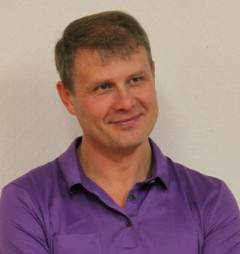
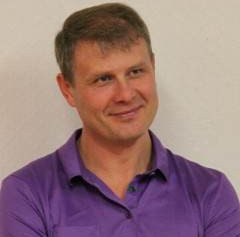
style: reduce bottom margin for images inside paragraphs

diff --git a/src/main/resources/static/css/style.min.css b/src/main/resources/static/css/style.min.css
@@ -1,1 +1,1 @@
-@font-face{font-family:'Open Sans';font-style:normal;font-weight:300;src:url(../fonts/open-sans-v17-cyrillic_latin-300.eot);src:local('Open Sans Light'),local('OpenSans-Light'),url(../fonts/open-sans-v17-cyrillic_latin-300.eot?#iefix) format('embedded-opentype'),url(../fonts/open-sans-v17-cyrillic_latin-300.woff2) format('woff2'),url(../fonts/open-sans-v17-cyrillic_latin-300.woff) format('woff'),url(../fonts/open-sans-v17-cyrillic_latin-300.ttf) format('truetype'),url(../fonts/open-sans-v17-cyrillic_latin-300.svg#OpenSans) format('svg')}@font-face{font-family:'Open Sans';font-style:normal;font-weight:400;src:url(../fonts/open-sans-v17-cyrillic_latin-regular.eot);src:local('Open Sans Regular'),local('OpenSans-Regular'),url(../fonts/open-sans-v17-cyrillic_latin-regular.eot?#iefix) format('embedded-opentype'),url(../fonts/open-sans-v17-cyrillic_latin-regular.woff2) format('woff2'),url(../fonts/open-sans-v17-cyrillic_latin-regular.woff) format('woff'),url(../fonts/open-sans-v17-cyrillic_latin-regular.ttf) format('truetype'),url(../fonts/open-sans-v17-cyrillic_latin-regular.svg#OpenSans) format('svg')}@font-face{font-family:'Open Sans';font-style:normal;font-weight:600;src:url(../fonts/open-sans-v17-cyrillic_latin-600.eot);src:local('Open Sans SemiBold'),local('OpenSans-SemiBold'),url(../fonts/open-sans-v17-cyrillic_latin-600.eot?#iefix) format('embedded-opentype'),url(../fonts/open-sans-v17-cyrillic_latin-600.woff2) format('woff2'),url(../fonts/open-sans-v17-cyrillic_latin-600.woff) format('woff'),url(../fonts/open-sans-v17-cyrillic_latin-600.ttf) format('truetype'),url(../fonts/open-sans-v17-cyrillic_latin-600.svg#OpenSans) format('svg')}@font-face{font-family:'Open Sans';font-style:normal;font-weight:700;src:url(../fonts/open-sans-v17-cyrillic_latin-700.eot);src:local('Open Sans Bold'),local('OpenSans-Bold'),url(../fonts/open-sans-v17-cyrillic_latin-700.eot?#iefix) format('embedded-opentype'),url(../fonts/open-sans-v17-cyrillic_latin-700.woff2) format('woff2'),url(../fonts/open-sans-v17-cyrillic_latin-700.woff) format('woff'),url(../fonts/open-sans-v17-cyrillic_latin-700.ttf) format('truetype'),url(../fonts/open-sans-v17-cyrillic_latin-700.svg#OpenSans) format('svg')}@font-face{font-family:'Open Sans';font-style:normal;font-weight:800;src:url(../fonts/open-sans-v17-cyrillic_latin-800.eot);src:local('Open Sans ExtraBold'),local('OpenSans-ExtraBold'),url(../fonts/open-sans-v17-cyrillic_latin-800.eot?#iefix) format('embedded-opentype'),url(../fonts/open-sans-v17-cyrillic_latin-800.woff2) format('woff2'),url(../fonts/open-sans-v17-cyrillic_latin-800.woff) format('woff'),url(../fonts/open-sans-v17-cyrillic_latin-800.ttf) format('truetype'),url(../fonts/open-sans-v17-cyrillic_latin-800.svg#OpenSans) format('svg')}body{font-family:'Open Sans',sans-serif}p{font-size:13px;color:#7a7a7a;line-height:24px}.page-content{width:79.5%;float:right}.content-section{padding-top:80px;position:relative;width:100%;display:inline-block;height:auto;left:50%;text-align:center;-webkit-transform:translateX(-50%);-moz-transform:translateX(-50%);-ms-transform:translateX(-50%);-o-transform:translateX(-50%);transform:translateX(-50%)}.section-heading{text-align:left;position:relative;margin-bottom:60px}.section-heading h1{margin-top:0;font-size:32px;color:#232323;display:inline-block}.section-heading em{font-style:normal;font-weight:700;color:#45489a}.section-heading p{display:inline-block;font-size:15px;line-height:26px;color:#343434}.justify-content-start p{position:absolute;top:6px}.shift-col{margin-left:-12px}.white-button a{font-size:13px;font-weight:600;color:#45489a;cursor:pointer;text-transform:capitalize;background-color:#fff;display:inline-block;height:44px;line-height:44px;padding:0 25px;letter-spacing:.25px;text-decoration:none;transition:all .3s}.white-button a:hover{background-color:#45489a;color:#fff}.accent-button a{font-size:13px;font-weight:600;color:#fff;text-transform:capitalize;background-color:#45489a;display:inline-block;height:44px;line-height:44px;padding:0 25px;letter-spacing:.25px;text-decoration:none;transition:all .3s}.accent-button a:hover{background-color:#fff;color:#45489a}header{position:fixed;top:0;transition:top .3s ease-in-out;width:100%}.nav-up{top:-75px}.responsive-nav{position:fixed;z-index:10;width:100%;height:80px;background-color:rgba(250,250,250,.95);box-shadow:0 5px 15px rgba(0,0,0,.2)}.navbar-toggle{position:absolute;top:40%;left:50%;display:inline-block;-webkit-transform:translateX(-50%) translateY(-50%);-moz-transform:translateX(-50%) translateY(-50%);-ms-transform:translateX(-50%) translateY(-50%);-o-transform:translateX(-50%) translateY(-50%);transform:translateX(-50%) translateY(-50%)}.navbar-nav{margin:0;border:none}#main-nav ul{text-align:center;background-color:rgba(0,0,0,.9);margin-top:59px;width:100%}#main-nav ul li{margin:15px 0}#main-nav ul li:hover{background-color:transparent}#main-nav ul li a{font-size:15px;text-transform:capitalize;color:#fff;box-shadow:none;border:none}#main-nav ul li a:hover{opacity:.5;background-color:transparent}.navbar-toggle span{background-color:#232323}.sidebar-navigation{width:20.5%;float:left;height:100%;position:fixed;background-color:rgba(12,12,12,.9);z-index:10}#locales{padding:10px 0;text-align:center}#locales span{padding-left:20px;padding-right:20px;color:#fff}.sidebar-navigation .logo{position:absolute;width:100%;height:auto;background:#f5f5f5;padding:10px}.sidebar-navigation .logo img{max-width:98%;max-height:100%}.sidebar-navigation nav{position:relative;top:65%;left:60%;-webkit-transform:translateX(-60%) translateY(-60%);-moz-transform:translateX(-60%) translateY(-60%);-ms-transform:translateX(-60%) translateY(-60%);-o-transform:translateX(-60%) translateY(-60%);transform:translateX(-60%) translateY(-60%)}.sidebar-navigation ul{margin-left:45px;list-style:none;padding:0}.sidebar-navigation li{padding:10px 0}.sidebar-navigation span{display:inline-block;position:relative}.sidebar-navigation nav a{display:inline-block;color:#fff;margin-top:5px;text-decoration:none!important;font-size:15px;letter-spacing:.5px;text-transform:capitalize}.circle{margin-right:5px;height:10px;width:10px;left:0;top:-1px;border-radius:50%;background-color:transparent;border:2px solid #fff;transition:all .3s}.rect{height:1px;width:0;left:0;bottom:5.5px;background-color:#fff;-webkit-transition:-webkit-transform .1s,width .6s;-moz-transition:-webkit-transform .1s,width .6s;transition:transform .1s,width .6s}.sidebar-navigation nav a:focus{color:#fff}.sidebar-navigation nav a:hover,nav .active-section{color:#fff}.sidebar-navigation nav a:hover span,nav .active-section span{background-color:#ddd}.sidebar-navigation nav .active-section .rect{width:30px}.sidebar-navigation nav .active-section .circle{background-color:#fff}.sidebar-navigation .social-icons{position:absolute;width:100%;bottom:10px;padding:0;margin:0;text-align:center}.sidebar-navigation .social-icons li{display:inline-block;margin-right:15px;margin-top:0;margin-bottom:0}.sidebar-navigation .social-icons li:last-child{margin-right:0}.sidebar-navigation .social-icons li a{font-size:18px;color:#fff;transition:all .5s}.sidebar-navigation .social-icons li a:hover{color:#45489a}.big-icon{font-size:24px}.slider .content-section{padding-top:0;min-width:100%;min-height:100vh;width:100%;height:100vh;text-align:center}.slider p a{color:#fff}.slider p a:hover{color:#ff0;text-decoration:none}.Modern-Slider .info{margin-left:25%;text-align:right;position:absolute;z-index:10;top:50%;right:60px;-webkit-transform:translateY(-50%);-moz-transform:translateY(-50%);-ms-transform:translateY(-50%);-o-transform:translateY(-50%);transform:translateY(-50%);display:inline-block}.Modern-Slider .info h1{margin-top:0;margin-bottom:15px;word-break:break-word;font-size:42px;color:#fff;font-weight:700}.Modern-Slider .info p{font-size:19px;color:#fff}.Modern-Slider .info .content{display:none}.Modern-Slider .info .content p{margin:0 0 10px}.Modern-Slider .info .white-button{margin-top:30px}.Modern-Slider .info .white-button a:focus{outline:0}.Modern-Slider .slick-dots{opacity:0}.Modern-Slider .NextArrow{outline:0;display:none;position:absolute;top:60px;right:60px;width:50px;height:50px;background:rgba(0,0,0,.5);border:0 none;margin-top:-22.5px;text-align:center;font:32px/50px FontAwesome;color:#fff;z-index:5}.Modern-Slider .NextArrow:before{content:'\f105'}.Modern-Slider .PrevArrow{outline:0;position:absolute;top:60px;right:120px;width:50px;height:50px;background:rgba(0,0,0,.5);border:0 none;margin-top:-22.5px;text-align:center;font:32px/50px FontAwesome;color:#fff;z-index:5}.Modern-Slider .item .image{width:100%;height:100vh;background-position:center center;background-size:cover;display:block}.Modern-Slider .item-1 .image{background-image:url(../img/Slider/slide_1.jpg)}.Modern-Slider .item-2 .image{background-image:url(../img/Slider/slide_2.jpg)}.Modern-Slider .PrevArrow:before{content:'\f104'}.Modern-Slider .item .image{animation:zoomin 12s ease-in-out infinite alternate;-webkit-animation:zoomin 12s ease-in-out infinite alternate}@keyframes zoomin{0%{-webkit-transform:scale(1)}100%{-webkit-transform:scale(1.2)}}.Modern-Slider{background:0 0}.slick-slider{position:relative;display:block;-webkit-user-select:none;-moz-user-select:none;-ms-user-select:none;user-select:none;-webkit-touch-callout:none;-khtml-user-select:none;-ms-touch-action:pan-y;touch-action:pan-y;-webkit-tap-highlight-color:transparent}.slick-list{position:relative;display:block;overflow:hidden;margin:0;padding:0}.slick-list:focus{outline:0}.slick-list.dragging{cursor:hand}.slick-slider .slick-list,.slick-slider .slick-track{-webkit-transform:translate3d(0,0,0);-ms-transform:translate3d(0,0,0);transform:translate3d(0,0,0)}.slick-track{position:relative;top:0;left:0;display:block}.slick-track:after,.slick-track:before{display:table;content:''}.slick-track:after{clear:both}.slick-loading .slick-track{visibility:hidden}.slick-slide{display:none;float:left;height:100%;min-height:1px}.slick-slide.dragging img{pointer-events:none}.slick-initialized .slick-slide{display:block}.slick-loading .slick-slide{visibility:hidden}.slick-vertical .slick-slide{display:block;height:auto;border:1px solid transparent}#featured{padding-left:60px;padding-right:60px;padding-bottom:80px;border-bottom:1px solid #eee}#featured .section-heading{margin-right:20%}#featured .content-section{display:inline-block;position:relative}#featured .owl-dots{margin-top:40px}#featured .owl-dots .owl-dot span{width:12px;height:12px;background-color:#cdcdcd!important;display:inline-block;border-radius:50%;margin:0 3px}#featured .owl-dots .active span{background-color:#45489a!important}#featured .owl-dots button{outline:0}#featured .owl-nav{position:absolute;display:inline-block;top:-110px;right:0}#featured .owl-nav button:focus{outline:0}#featured .owl-nav .owl-prev span{margin-right:10px}#featured .owl-nav .owl-next span,#featured .owl-nav .owl-prev span{outline:0;width:50px;height:50px;display:inline-block;text-align:center;line-height:42px;background-color:#eee;color:#232323;font-size:42px;transition:all .5s}#featured .owl-nav span:hover{background-color:#45489a;color:#fff}#featured .item{text-align:left;position:relative;z-index:10}#featured .item .image{position:relative}#featured .item .image img{width:100%;overflow:hidden}#featured .item .image .featured-button a{font-size:13px;font-weight:600;color:#fff;text-align:center;text-transform:capitalize;background-color:rgba(69,72,154,.9);display:inline-block;height:44px;line-height:44px;width:100%;letter-spacing:.25px;text-decoration:none;transition:all .5s;position:absolute;z-index:9;bottom:-44px;opacity:0}#featured .item:hover .featured-button a{bottom:0;opacity:1}#featured .item .text-content{padding-top:20px;background-color:#fff;position:relative;z-index:10}#featured .item .text-content h4{margin-top:0;margin-bottom:5px;font-size:21px;font-weight:600;color:#232323;letter-spacing:.5px}#featured .item .text-content span{display:inline-block;font-size:15px;font-weight:600;color:#7a7a7a;letter-spacing:.5px;margin-bottom:12.5px}.gallery img{transition:1s;padding:12px;width:250px;height:200px;object-fit:cover}.gallery img:hover{filter:opacity(90%);transform:scale(1.1)}#imggallery{padding-left:60px;padding-right:60px;padding-bottom:50px;background-color:#f4f4f4}#imggallery .masonry{position:relative;width:100%}#imggallery .masonry .item img{transition:all 1s;width:100%;overflow:hidden;margin-bottom:30px}#imggallery .masonry .item img:hover{opacity:.5}#video{background-color:#f4f4f4;padding:100px 60px}#video .accent-button{margin-top:30px}.video-gallery{position:relative;margin:0 auto;text-align:center}.video-gallery .gallery-item{position:relative;float:left;overflow:hidden;margin:10px 1%;min-width:280px;max-width:640px;max-height:360px;width:48%;background:#000;cursor:pointer}.video-gallery .gallery-item img{position:relative;display:block;opacity:.45;width:110%;height:360px;transition:opacity .35s,transform .35s;transform:translate3d(-23px,0,0);backface-visibility:hidden}.video-gallery .gallery-item .gallery-item-caption{padding:2em;color:#fff;text-transform:uppercase;font-size:1.25em}.video-gallery .gallery-item .gallery-item-caption,.video-gallery .gallery-item .gallery-item-caption>a{position:absolute;top:0;left:0;width:100%;height:100%}.video-gallery .gallery-item h2{font-weight:300;overflow:hidden;padding:.5em 0}.video-gallery .gallery-item h2,.video-gallery .gallery-item p{position:relative;margin:0;z-index:10}.video-gallery .gallery-item p{letter-spacing:1px;font-size:68%;padding:1em 0;opacity:0;transition:opacity .35s,transform .35s;transform:translate3d(10%,0,0)}.video-gallery .gallery-item:hover img{opacity:.3;transform:translate3d(0,0,0)}.video-gallery .gallery-item .gallery-item-caption{text-align:left}.video-gallery .gallery-item h2::after{content:"";position:absolute;bottom:0;left:0;width:15%;height:1px;background:#fff;transition:transform .3s;transform:translate3d(-100%,0,0)}.video-gallery .gallery-item:hover h2::after{transform:translate3d(0,0,0)}.video-gallery .gallery-item:hover p{opacity:1;transform:translate3d(0,0,0)}@media screen and (max-width:992px){.video-gallery .gallery-item{display:inline-block;float:none;margin:10px auto;width:100%}.video-gallery .gallery-item img{height:280px}}#witness{padding-left:60px;padding-right:60px;padding-bottom:80px}#witness .nav-tabs{list-style:none;margin:0;padding:0;width:100%;background-color:#eee;border-bottom:10px solid #45489a}#witness .nav-tabs li{display:inline-block;text-align:center;width:25%;float:left;margin:0;padding:0}#witness .nav-tabs a{display:block;text-align:center;text-decoration:none;text-transform:capitalize;color:#232323;font-size:19px;font-weight:600;transition:.5s}#witness .nav-tabs a:hover{color:#45489a}#witness .nav-tabs .active:hover{color:#fff}#witness .nav-tabs>.active a{background-color:#45489a;color:#fff}.tab-content{background-color:#f4f4f4;padding:20px 30px}.tab-content p{text-align:left;font-size:17px;color:#555;line-height:24px}.bold-text{font-weight:700}.clearfix:after{content:"";display:table;clear:both}.clearfix img{margin:8px 0}img.pull-left{padding-left:unset}img.pull-right{padding-right:unset}#witness .item .text-content h4{padding-top:7.5px;margin-top:0;margin-bottom:5px;font-size:21px;font-weight:600;color:#232323;letter-spacing:.5px}#witness .item .text-content span{display:inline-block;font-size:15px;font-weight:600;color:#7a7a7a;letter-spacing:.5px;margin-bottom:15px}#witness .item .text-content .accent-button{margin-top:25px}#advice{padding-left:60px;padding-right:60px;padding-bottom:80px;background-color:#f4f4f4}.advice-item{text-align:left}.advice-item p{font-size:17px;color:#555;line-height:24px}.acc{margin:0 auto}.question-card{margin-top:2em;position:relative}.question-title{background:#fff;box-shadow:0 0 20px rgba(0,0,0,.2);color:#212121;cursor:pointer;display:block;padding:1em 1.5em;position:relative;text-align:left;font-size:large}.question-title::after{width:8px;height:8px;border-right:1px solid #4a6e78;border-bottom:1px solid #4a6e78;position:absolute;right:10px;content:" ";top:17px;transform:rotate(-45deg);transition:all .2s ease-in-out}.question-title.active::after{transform:rotate(45deg);transition:all .2s ease-in-out}.question-panel{background:#fff;color:#212121;display:none;margin:0;padding:2em;text-align:left}blockquote{margin:0 auto;padding:1em;border-left:5px solid #45489a}blockquote:before{display:none}blockquote:not(:first-of-type){margin-top:.5em}blockquote p{color:#555;font-size:12pt;line-height:1.4;font-family:'PT Serif',Cambria,'Hoefler Text',Utopia,'Liberation Serif','Nimbus Roman No9 L Regular',Times,'Times New Roman',serif}blockquote footer{margin-top:.5em;padding:0;color:#777;font-size:12pt;text-align:left;font-style:italic}blockquote footer:before{content:'— '}blockquote:nth-of-type(even){text-align:right;border-left:none;border-right:5px solid #45489a}blockquote:nth-of-type(even) footer{text-align:right}blockquote:nth-of-type(even) footer:before{content:''}blockquote:nth-of-type(even) footer:after{content:' —'}#contact{padding-top:0}#contact-content{padding:80px 60px 0}#contact input{border-radius:0;padding-left:15px;font-size:13px;color:#000;background-color:#f4f4f4;border:1px solid #eee;outline:0;box-shadow:none;line-height:40px;height:40px;width:100%;margin-bottom:25px}#contact textarea{border-radius:0;padding-left:15px;padding-top:10px;font-size:13px;color:#000;background-color:#f4f4f4;border:1px solid #eee;outline:0;box-shadow:none;height:200px;max-height:250px;width:100%;max-width:100%;margin-bottom:25px}#contact button{font-size:13px;border-radius:0;font-weight:600;color:#fff;text-transform:capitalize;background-color:#45489a;display:inline-block;height:44px;line-height:24px;outline:0;box-shadow:none;width:100%;letter-spacing:.25px;text-decoration:none;transition:all .3s}#contact button:hover{color:#232323;background-color:#f4f4f4}.alert{padding:10px 35px 10px 14px;border-radius:4px;position:relative;margin:25px 0 0}.alert .close{position:absolute;top:6px;right:12px;font-size:24px;font-weight:700;cursor:pointer}#contact .section-content{margin-bottom:25px}.footer{background-color:rgba(12,12,12,.9);height:80px;line-height:80px;display:inline-block;text-align:center;width:100%}.footer p{margin-bottom:0;font-size:13px;line-height:80px;color:#fff;letter-spacing:.5px;font-weight:300}.footer p a{text-decoration:none;color:#fff;font-weight:600}@supports (-webkit-overflow-scrolling:touch){.Modern-Slider .PrevArrow{width:50px;height:50px;margin-left:-40px}.Modern-Slider .NextArrow{width:50px;height:50px;margin-right:-40px}}@media (max-width:992px){.responsive-nav{display:none}.sidebar-navigation .logo{font-size:18px}.sidebar-navigation nav a{font-size:13px}.sidebar-navigation nav ul{margin-left:30px}.sidebar-navigation .social-icons li a{font-size:15px}#contact-info,.section-heading p{position:relative}.section-heading .sidecontainer{position:relative}}@media (max-width:767px){.responsive-nav{display:block;height:60px}.page-content{width:100%}.Modern-Slider .info{margin-left:unset;text-align:center;right:0;padding:0 30px}.Modern-Slider .NextArrow{outline:0;display:none;position:absolute;top:120px;right:50%;transform:translateX(50%);margin-right:-30px;width:50px;height:50px;background:rgba(0,0,0,.5);border:0 none;text-align:center;font:32px/50px FontAwesome;color:#fff;z-index:5}.Modern-Slider .NextArrow:before{content:'\f105'}.Modern-Slider .PrevArrow{outline:0;position:absolute;top:120px;left:50%;transform:translateX(-50%);margin-left:-30px;width:50px;height:50px;background:rgba(0,0,0,.5);border:0 none;text-align:center;font:32px/50px FontAwesome;color:#fff;z-index:5}.pull-right{padding-left:unset;float:left}#contact-info,.section-heading p{position:relative}.section-heading .sidecontainer{position:relative}}@media (max-width:690px){.Modern-Slider .info h1{font-size:42px}.Modern-Slider .info p{font-size:16px}.section-heading p{position:relative}.section-heading .sidecontainer{position:relative}.column2{white-space:normal;padding:unset;flex:50%}#featured{padding-left:15px;padding-right:15px}#featured .owl-nav{position:absolute;display:inline-block;top:-110px;right:0}#imggallery{padding-left:15px;padding-right:15px}#video{padding-left:15px;padding-right:15px}#witness{padding-left:15px;padding-right:15px}#witness .nav-tabs a{font-size:12px}#witness .tab-content .text-content{display:block}#advice{padding-left:15px;padding-right:15px}#contact-content{padding-left:15px;padding-right:15px}}@media (max-width:339px){.Modern-Slider .info h1{font-size:38px}.Modern-Slider .info p{font-size:16px}#witness .nav-tabs a{font-size:10px}.footer{height:80px}.footer p{line-height:40px}}@media only screen and (max-width:992px){#goback-to-witness{position:fixed;bottom:20px;right:20px;background:rgba(0,0,0,.7);width:50px;height:50px;display:none;text-decoration:none;-webkit-border-radius:35px;-moz-border-radius:35px;border-radius:35px;-webkit-transition:all .3s linear;-moz-transition:all .3s ease;-o-transition:all .3s ease;transition:all .3s ease;z-index:2}#goback-to-witness i{color:#fff;margin:0;position:relative;left:16px;top:13px;font-size:19px;-webkit-transition:all .3s ease;-moz-transition:all .3s ease;-o-transition:all .3s ease;transition:all .3s ease}#goback-to-witness:hover{background:rgba(0,0,0,.9)}#goback-to-witness:hover i{color:#fff;top:5px}}
+@font-face{font-family:'Open Sans';font-style:normal;font-weight:300;src:url(../fonts/open-sans-v17-cyrillic_latin-300.eot);src:local('Open Sans Light'),local('OpenSans-Light'),url(../fonts/open-sans-v17-cyrillic_latin-300.eot?#iefix) format('embedded-opentype'),url(../fonts/open-sans-v17-cyrillic_latin-300.woff2) format('woff2'),url(../fonts/open-sans-v17-cyrillic_latin-300.woff) format('woff'),url(../fonts/open-sans-v17-cyrillic_latin-300.ttf) format('truetype'),url(../fonts/open-sans-v17-cyrillic_latin-300.svg#OpenSans) format('svg')}@font-face{font-family:'Open Sans';font-style:normal;font-weight:400;src:url(../fonts/open-sans-v17-cyrillic_latin-regular.eot);src:local('Open Sans Regular'),local('OpenSans-Regular'),url(../fonts/open-sans-v17-cyrillic_latin-regular.eot?#iefix) format('embedded-opentype'),url(../fonts/open-sans-v17-cyrillic_latin-regular.woff2) format('woff2'),url(../fonts/open-sans-v17-cyrillic_latin-regular.woff) format('woff'),url(../fonts/open-sans-v17-cyrillic_latin-regular.ttf) format('truetype'),url(../fonts/open-sans-v17-cyrillic_latin-regular.svg#OpenSans) format('svg')}@font-face{font-family:'Open Sans';font-style:normal;font-weight:600;src:url(../fonts/open-sans-v17-cyrillic_latin-600.eot);src:local('Open Sans SemiBold'),local('OpenSans-SemiBold'),url(../fonts/open-sans-v17-cyrillic_latin-600.eot?#iefix) format('embedded-opentype'),url(../fonts/open-sans-v17-cyrillic_latin-600.woff2) format('woff2'),url(../fonts/open-sans-v17-cyrillic_latin-600.woff) format('woff'),url(../fonts/open-sans-v17-cyrillic_latin-600.ttf) format('truetype'),url(../fonts/open-sans-v17-cyrillic_latin-600.svg#OpenSans) format('svg')}@font-face{font-family:'Open Sans';font-style:normal;font-weight:700;src:url(../fonts/open-sans-v17-cyrillic_latin-700.eot);src:local('Open Sans Bold'),local('OpenSans-Bold'),url(../fonts/open-sans-v17-cyrillic_latin-700.eot?#iefix) format('embedded-opentype'),url(../fonts/open-sans-v17-cyrillic_latin-700.woff2) format('woff2'),url(../fonts/open-sans-v17-cyrillic_latin-700.woff) format('woff'),url(../fonts/open-sans-v17-cyrillic_latin-700.ttf) format('truetype'),url(../fonts/open-sans-v17-cyrillic_latin-700.svg#OpenSans) format('svg')}@font-face{font-family:'Open Sans';font-style:normal;font-weight:800;src:url(../fonts/open-sans-v17-cyrillic_latin-800.eot);src:local('Open Sans ExtraBold'),local('OpenSans-ExtraBold'),url(../fonts/open-sans-v17-cyrillic_latin-800.eot?#iefix) format('embedded-opentype'),url(../fonts/open-sans-v17-cyrillic_latin-800.woff2) format('woff2'),url(../fonts/open-sans-v17-cyrillic_latin-800.woff) format('woff'),url(../fonts/open-sans-v17-cyrillic_latin-800.ttf) format('truetype'),url(../fonts/open-sans-v17-cyrillic_latin-800.svg#OpenSans) format('svg')}body{font-family:'Open Sans',sans-serif}p{font-size:13px;color:#7a7a7a;line-height:24px}.page-content{width:79.5%;float:right}.content-section{padding-top:80px;position:relative;width:100%;display:inline-block;height:auto;left:50%;text-align:center;-webkit-transform:translateX(-50%);-moz-transform:translateX(-50%);-ms-transform:translateX(-50%);-o-transform:translateX(-50%);transform:translateX(-50%)}.section-heading{text-align:left;position:relative;margin-bottom:60px}.section-heading h1{margin-top:0;font-size:32px;color:#232323;display:inline-block}.section-heading em{font-style:normal;font-weight:700;color:#45489a}.section-heading p{display:inline-block;font-size:15px;line-height:26px;color:#343434}.justify-content-start p{position:absolute;top:6px}.shift-col{margin-left:-12px}.white-button a{font-size:13px;font-weight:600;color:#45489a;cursor:pointer;text-transform:capitalize;background-color:#fff;display:inline-block;height:44px;line-height:44px;padding:0 25px;letter-spacing:.25px;text-decoration:none;transition:all .3s}.white-button a:hover{background-color:#45489a;color:#fff}.accent-button a{font-size:13px;font-weight:600;color:#fff;text-transform:capitalize;background-color:#45489a;display:inline-block;height:44px;line-height:44px;padding:0 25px;letter-spacing:.25px;text-decoration:none;transition:all .3s}.accent-button a:hover{background-color:#fff;color:#45489a}header{position:fixed;top:0;transition:top .3s ease-in-out;width:100%}.nav-up{top:-75px}.responsive-nav{position:fixed;z-index:10;width:100%;height:80px;background-color:rgba(250,250,250,.95);box-shadow:0 5px 15px rgba(0,0,0,.2)}.navbar-toggle{position:absolute;top:40%;left:50%;display:inline-block;-webkit-transform:translateX(-50%) translateY(-50%);-moz-transform:translateX(-50%) translateY(-50%);-ms-transform:translateX(-50%) translateY(-50%);-o-transform:translateX(-50%) translateY(-50%);transform:translateX(-50%) translateY(-50%)}.navbar-nav{margin:0;border:none}#main-nav ul{text-align:center;background-color:rgba(0,0,0,.9);margin-top:59px;width:100%}#main-nav ul li{margin:15px 0}#main-nav ul li:hover{background-color:transparent}#main-nav ul li a{font-size:15px;text-transform:capitalize;color:#fff;box-shadow:none;border:none}#main-nav ul li a:hover{opacity:.5;background-color:transparent}.navbar-toggle span{background-color:#232323}.sidebar-navigation{width:20.5%;float:left;height:100%;position:fixed;background-color:rgba(12,12,12,.9);z-index:10}#locales{padding:10px 0;text-align:center}#locales span{padding-left:20px;padding-right:20px;color:#fff}.sidebar-navigation .logo{position:absolute;width:100%;height:auto;background:#f5f5f5;padding:10px}.sidebar-navigation .logo img{max-width:98%;max-height:100%}.sidebar-navigation nav{position:relative;top:65%;left:60%;-webkit-transform:translateX(-60%) translateY(-60%);-moz-transform:translateX(-60%) translateY(-60%);-ms-transform:translateX(-60%) translateY(-60%);-o-transform:translateX(-60%) translateY(-60%);transform:translateX(-60%) translateY(-60%)}.sidebar-navigation ul{margin-left:45px;list-style:none;padding:0}.sidebar-navigation li{padding:10px 0}.sidebar-navigation span{display:inline-block;position:relative}.sidebar-navigation nav a{display:inline-block;color:#fff;margin-top:5px;text-decoration:none!important;font-size:15px;letter-spacing:.5px;text-transform:capitalize}.circle{margin-right:5px;height:10px;width:10px;left:0;top:-1px;border-radius:50%;background-color:transparent;border:2px solid #fff;transition:all .3s}.rect{height:1px;width:0;left:0;bottom:5.5px;background-color:#fff;-webkit-transition:-webkit-transform .1s,width .6s;-moz-transition:-webkit-transform .1s,width .6s;transition:transform .1s,width .6s}.sidebar-navigation nav a:focus{color:#fff}.sidebar-navigation nav a:hover,nav .active-section{color:#fff}.sidebar-navigation nav a:hover span,nav .active-section span{background-color:#ddd}.sidebar-navigation nav .active-section .rect{width:30px}.sidebar-navigation nav .active-section .circle{background-color:#fff}.sidebar-navigation .social-icons{position:absolute;width:100%;bottom:10px;padding:0;margin:0;text-align:center}.sidebar-navigation .social-icons li{display:inline-block;margin-right:15px;margin-top:0;margin-bottom:0}.sidebar-navigation .social-icons li:last-child{margin-right:0}.sidebar-navigation .social-icons li a{font-size:18px;color:#fff;transition:all .5s}.sidebar-navigation .social-icons li a:hover{color:#45489a}.big-icon{font-size:24px}.slider .content-section{padding-top:0;min-width:100%;min-height:100vh;width:100%;height:100vh;text-align:center}.slider p a{color:#fff}.slider p a:hover{color:#ff0;text-decoration:none}.Modern-Slider .info{margin-left:25%;text-align:right;position:absolute;z-index:10;top:50%;right:60px;-webkit-transform:translateY(-50%);-moz-transform:translateY(-50%);-ms-transform:translateY(-50%);-o-transform:translateY(-50%);transform:translateY(-50%);display:inline-block}.Modern-Slider .info h1{margin-top:0;margin-bottom:15px;word-break:break-word;font-size:42px;color:#fff;font-weight:700}.Modern-Slider .info p{font-size:19px;color:#fff}.Modern-Slider .info .content{display:none}.Modern-Slider .info .content p{margin:0 0 10px}.Modern-Slider .info .white-button{margin-top:30px}.Modern-Slider .info .white-button a:focus{outline:0}.Modern-Slider .slick-dots{opacity:0}.Modern-Slider .NextArrow{outline:0;display:none;position:absolute;top:60px;right:60px;width:50px;height:50px;background:rgba(0,0,0,.5);border:0 none;margin-top:-22.5px;text-align:center;font:32px/50px FontAwesome;color:#fff;z-index:5}.Modern-Slider .NextArrow:before{content:'\f105'}.Modern-Slider .PrevArrow{outline:0;position:absolute;top:60px;right:120px;width:50px;height:50px;background:rgba(0,0,0,.5);border:0 none;margin-top:-22.5px;text-align:center;font:32px/50px FontAwesome;color:#fff;z-index:5}.Modern-Slider .item .image{width:100%;height:100vh;background-position:center center;background-size:cover;display:block}.Modern-Slider .item-1 .image{background-image:url(../img/Slider/slide_1.jpg)}.Modern-Slider .item-2 .image{background-image:url(../img/Slider/slide_2.jpg)}.Modern-Slider .PrevArrow:before{content:'\f104'}.Modern-Slider .item .image{animation:zoomin 12s ease-in-out infinite alternate;-webkit-animation:zoomin 12s ease-in-out infinite alternate}@keyframes zoomin{0%{-webkit-transform:scale(1)}100%{-webkit-transform:scale(1.2)}}.Modern-Slider{background:0 0}.slick-slider{position:relative;display:block;-webkit-user-select:none;-moz-user-select:none;-ms-user-select:none;user-select:none;-webkit-touch-callout:none;-khtml-user-select:none;-ms-touch-action:pan-y;touch-action:pan-y;-webkit-tap-highlight-color:transparent}.slick-list{position:relative;display:block;overflow:hidden;margin:0;padding:0}.slick-list:focus{outline:0}.slick-list.dragging{cursor:hand}.slick-slider .slick-list,.slick-slider .slick-track{-webkit-transform:translate3d(0,0,0);-ms-transform:translate3d(0,0,0);transform:translate3d(0,0,0)}.slick-track{position:relative;top:0;left:0;display:block}.slick-track:after,.slick-track:before{display:table;content:''}.slick-track:after{clear:both}.slick-loading .slick-track{visibility:hidden}.slick-slide{display:none;float:left;height:100%;min-height:1px}.slick-slide.dragging img{pointer-events:none}.slick-initialized .slick-slide{display:block}.slick-loading .slick-slide{visibility:hidden}.slick-vertical .slick-slide{display:block;height:auto;border:1px solid transparent}#featured{padding-left:60px;padding-right:60px;padding-bottom:80px;border-bottom:1px solid #eee}#featured .section-heading{margin-right:20%}#featured .content-section{display:inline-block;position:relative}#featured .owl-dots{margin-top:40px}#featured .owl-dots .owl-dot span{width:12px;height:12px;background-color:#cdcdcd!important;display:inline-block;border-radius:50%;margin:0 3px}#featured .owl-dots .active span{background-color:#45489a!important}#featured .owl-dots button{outline:0}#featured .owl-nav{position:absolute;display:inline-block;top:-110px;right:0}#featured .owl-nav button:focus{outline:0}#featured .owl-nav .owl-prev span{margin-right:10px}#featured .owl-nav .owl-next span,#featured .owl-nav .owl-prev span{outline:0;width:50px;height:50px;display:inline-block;text-align:center;line-height:42px;background-color:#eee;color:#232323;font-size:42px;transition:all .5s}#featured .owl-nav span:hover{background-color:#45489a;color:#fff}#featured .item{text-align:left;position:relative;z-index:10}#featured .item .image{position:relative}#featured .item .image img{width:100%;overflow:hidden}#featured .item .image .featured-button a{font-size:13px;font-weight:600;color:#fff;text-align:center;text-transform:capitalize;background-color:rgba(69,72,154,.9);display:inline-block;height:44px;line-height:44px;width:100%;letter-spacing:.25px;text-decoration:none;transition:all .5s;position:absolute;z-index:9;bottom:-44px;opacity:0}#featured .item:hover .featured-button a{bottom:0;opacity:1}#featured .item .text-content{padding-top:20px;background-color:#fff;position:relative;z-index:10}#featured .item .text-content h4{margin-top:0;margin-bottom:5px;font-size:21px;font-weight:600;color:#232323;letter-spacing:.5px}#featured .item .text-content span{display:inline-block;font-size:15px;font-weight:600;color:#7a7a7a;letter-spacing:.5px;margin-bottom:12.5px}.gallery img{transition:1s;padding:12px;width:250px;height:200px;object-fit:cover}.gallery img:hover{filter:opacity(90%);transform:scale(1.1)}#imggallery{padding-left:60px;padding-right:60px;padding-bottom:50px;background-color:#f4f4f4}#imggallery .masonry{position:relative;width:100%}#imggallery .masonry .item img{transition:all 1s;width:100%;overflow:hidden;margin-bottom:30px}#imggallery .masonry .item img:hover{opacity:.5}#video{background-color:#f4f4f4;padding:100px 60px}#video .accent-button{margin-top:30px}.video-gallery{position:relative;margin:0 auto;text-align:center}.video-gallery .gallery-item{position:relative;float:left;overflow:hidden;margin:10px 1%;min-width:280px;max-width:640px;max-height:360px;width:48%;background:#000;cursor:pointer}.video-gallery .gallery-item img{position:relative;display:block;opacity:.45;width:110%;height:360px;transition:opacity .35s,transform .35s;transform:translate3d(-23px,0,0);backface-visibility:hidden}.video-gallery .gallery-item .gallery-item-caption{padding:2em;color:#fff;text-transform:uppercase;font-size:1.25em}.video-gallery .gallery-item .gallery-item-caption,.video-gallery .gallery-item .gallery-item-caption>a{position:absolute;top:0;left:0;width:100%;height:100%}.video-gallery .gallery-item h2{font-weight:300;overflow:hidden;padding:.5em 0}.video-gallery .gallery-item h2,.video-gallery .gallery-item p{position:relative;margin:0;z-index:10}.video-gallery .gallery-item p{letter-spacing:1px;font-size:68%;padding:1em 0;opacity:0;transition:opacity .35s,transform .35s;transform:translate3d(10%,0,0)}.video-gallery .gallery-item:hover img{opacity:.3;transform:translate3d(0,0,0)}.video-gallery .gallery-item .gallery-item-caption{text-align:left}.video-gallery .gallery-item h2::after{content:"";position:absolute;bottom:0;left:0;width:15%;height:1px;background:#fff;transition:transform .3s;transform:translate3d(-100%,0,0)}.video-gallery .gallery-item:hover h2::after{transform:translate3d(0,0,0)}.video-gallery .gallery-item:hover p{opacity:1;transform:translate3d(0,0,0)}@media screen and (max-width:992px){.video-gallery .gallery-item{display:inline-block;float:none;margin:10px auto;width:100%}.video-gallery .gallery-item img{height:280px}}#witness{padding-left:60px;padding-right:60px;padding-bottom:80px}#witness .nav-tabs{list-style:none;margin:0;padding:0;width:100%;background-color:#eee;border-bottom:10px solid #45489a}#witness .nav-tabs li{display:inline-block;text-align:center;width:25%;float:left;margin:0;padding:0}#witness .nav-tabs a{display:block;text-align:center;text-decoration:none;text-transform:capitalize;color:#232323;font-size:19px;font-weight:600;transition:.5s}#witness .nav-tabs a:hover{color:#45489a}#witness .nav-tabs .active:hover{color:#fff}#witness .nav-tabs>.active a{background-color:#45489a;color:#fff}.tab-content{background-color:#f4f4f4;padding:20px 30px}.tab-content p{text-align:left;font-size:17px;color:#555;line-height:24px}.bold-text{font-weight:700}.clearfix:after{content:"";display:table;clear:both}.clearfix img{margin:6px 0}img.pull-left{padding-left:unset}img.pull-right{padding-right:unset}#witness .item .text-content h4{padding-top:7.5px;margin-top:0;margin-bottom:5px;font-size:21px;font-weight:600;color:#232323;letter-spacing:.5px}#witness .item .text-content span{display:inline-block;font-size:15px;font-weight:600;color:#7a7a7a;letter-spacing:.5px;margin-bottom:15px}#witness .item .text-content .accent-button{margin-top:25px}#advice{padding-left:60px;padding-right:60px;padding-bottom:80px;background-color:#f4f4f4}.advice-item{text-align:left}.advice-item p{font-size:17px;color:#555;line-height:24px}.acc{margin:0 auto}.question-card{margin-top:2em;position:relative}.question-title{background:#fff;box-shadow:0 0 20px rgba(0,0,0,.2);color:#212121;cursor:pointer;display:block;padding:1em 1.5em;position:relative;text-align:left;font-size:large}.question-title::after{width:8px;height:8px;border-right:1px solid #4a6e78;border-bottom:1px solid #4a6e78;position:absolute;right:10px;content:" ";top:17px;transform:rotate(-45deg);transition:all .2s ease-in-out}.question-title.active::after{transform:rotate(45deg);transition:all .2s ease-in-out}.question-panel{background:#fff;color:#212121;display:none;margin:0;padding:2em;text-align:left}blockquote{margin:0 auto;padding:1em;border-left:5px solid #45489a}blockquote:before{display:none}blockquote:not(:first-of-type){margin-top:.5em}blockquote p{color:#555;font-size:12pt;line-height:1.4;font-family:'PT Serif',Cambria,'Hoefler Text',Utopia,'Liberation Serif','Nimbus Roman No9 L Regular',Times,'Times New Roman',serif}blockquote footer{margin-top:.5em;padding:0;color:#777;font-size:12pt;text-align:left;font-style:italic}blockquote footer:before{content:'— '}blockquote:nth-of-type(even){text-align:right;border-left:none;border-right:5px solid #45489a}blockquote:nth-of-type(even) footer{text-align:right}blockquote:nth-of-type(even) footer:before{content:''}blockquote:nth-of-type(even) footer:after{content:' —'}#contact{padding-top:0}#contact-content{padding:80px 60px 0}#contact input{border-radius:0;padding-left:15px;font-size:13px;color:#000;background-color:#f4f4f4;border:1px solid #eee;outline:0;box-shadow:none;line-height:40px;height:40px;width:100%;margin-bottom:25px}#contact textarea{border-radius:0;padding-left:15px;padding-top:10px;font-size:13px;color:#000;background-color:#f4f4f4;border:1px solid #eee;outline:0;box-shadow:none;height:200px;max-height:250px;width:100%;max-width:100%;margin-bottom:25px}#contact button{font-size:13px;border-radius:0;font-weight:600;color:#fff;text-transform:capitalize;background-color:#45489a;display:inline-block;height:44px;line-height:24px;outline:0;box-shadow:none;width:100%;letter-spacing:.25px;text-decoration:none;transition:all .3s}#contact button:hover{color:#232323;background-color:#f4f4f4}.alert{padding:10px 35px 10px 14px;border-radius:4px;position:relative;margin:25px 0 0}.alert .close{position:absolute;top:6px;right:12px;font-size:24px;font-weight:700;cursor:pointer}#contact .section-content{margin-bottom:25px}.footer{background-color:rgba(12,12,12,.9);height:80px;line-height:80px;display:inline-block;text-align:center;width:100%}.footer p{margin-bottom:0;font-size:13px;line-height:80px;color:#fff;letter-spacing:.5px;font-weight:300}.footer p a{text-decoration:none;color:#fff;font-weight:600}@supports (-webkit-overflow-scrolling:touch){.Modern-Slider .PrevArrow{width:50px;height:50px;margin-left:-40px}.Modern-Slider .NextArrow{width:50px;height:50px;margin-right:-40px}}@media (max-width:992px){.responsive-nav{display:none}.sidebar-navigation .logo{font-size:18px}.sidebar-navigation nav a{font-size:13px}.sidebar-navigation nav ul{margin-left:30px}.sidebar-navigation .social-icons li a{font-size:15px}#contact-info,.section-heading p{position:relative}.section-heading .sidecontainer{position:relative}}@media (max-width:767px){.responsive-nav{display:block;height:60px}.page-content{width:100%}.Modern-Slider .info{margin-left:unset;text-align:center;right:0;padding:0 30px}.Modern-Slider .NextArrow{outline:0;display:none;position:absolute;top:120px;right:50%;transform:translateX(50%);margin-right:-30px;width:50px;height:50px;background:rgba(0,0,0,.5);border:0 none;text-align:center;font:32px/50px FontAwesome;color:#fff;z-index:5}.Modern-Slider .NextArrow:before{content:'\f105'}.Modern-Slider .PrevArrow{outline:0;position:absolute;top:120px;left:50%;transform:translateX(-50%);margin-left:-30px;width:50px;height:50px;background:rgba(0,0,0,.5);border:0 none;text-align:center;font:32px/50px FontAwesome;color:#fff;z-index:5}.pull-right{padding-left:unset;float:left}#contact-info,.section-heading p{position:relative}.section-heading .sidecontainer{position:relative}}@media (max-width:690px){.Modern-Slider .info h1{font-size:42px}.Modern-Slider .info p{font-size:16px}.section-heading p{position:relative}.section-heading .sidecontainer{position:relative}.column2{white-space:normal;padding:unset;flex:50%}#featured{padding-left:15px;padding-right:15px}#featured .owl-nav{position:absolute;display:inline-block;top:-110px;right:0}#imggallery{padding-left:15px;padding-right:15px}#video{padding-left:15px;padding-right:15px}#witness{padding-left:15px;padding-right:15px}#witness .nav-tabs a{font-size:12px}#witness .tab-content .text-content{display:block}#advice{padding-left:15px;padding-right:15px}#contact-content{padding-left:15px;padding-right:15px}}@media (max-width:339px){.Modern-Slider .info h1{font-size:38px}.Modern-Slider .info p{font-size:16px}#witness .nav-tabs a{font-size:10px}.footer{height:80px}.footer p{line-height:40px}}@media only screen and (max-width:992px){#goback-to-witness{position:fixed;bottom:20px;right:20px;background:rgba(0,0,0,.7);width:50px;height:50px;display:none;text-decoration:none;-webkit-border-radius:35px;-moz-border-radius:35px;border-radius:35px;-webkit-transition:all .3s linear;-moz-transition:all .3s ease;-o-transition:all .3s ease;transition:all .3s ease;z-index:2}#goback-to-witness i{color:#fff;margin:0;position:relative;left:16px;top:13px;font-size:19px;-webkit-transition:all .3s ease;-moz-transition:all .3s ease;-o-transition:all .3s ease;transition:all .3s ease}#goback-to-witness:hover{background:rgba(0,0,0,.9)}#goback-to-witness:hover i{color:#fff;top:5px}}

diff --git a/src/main/resources/static/css/style.css b/src/main/resources/static/css/style.css
@@ -978,7 +978,7 @@ header {
 }
 
 .clearfix img {
-    margin: 8px 0;
+    margin: 6px 0;
 }
 
 img.pull-left {
